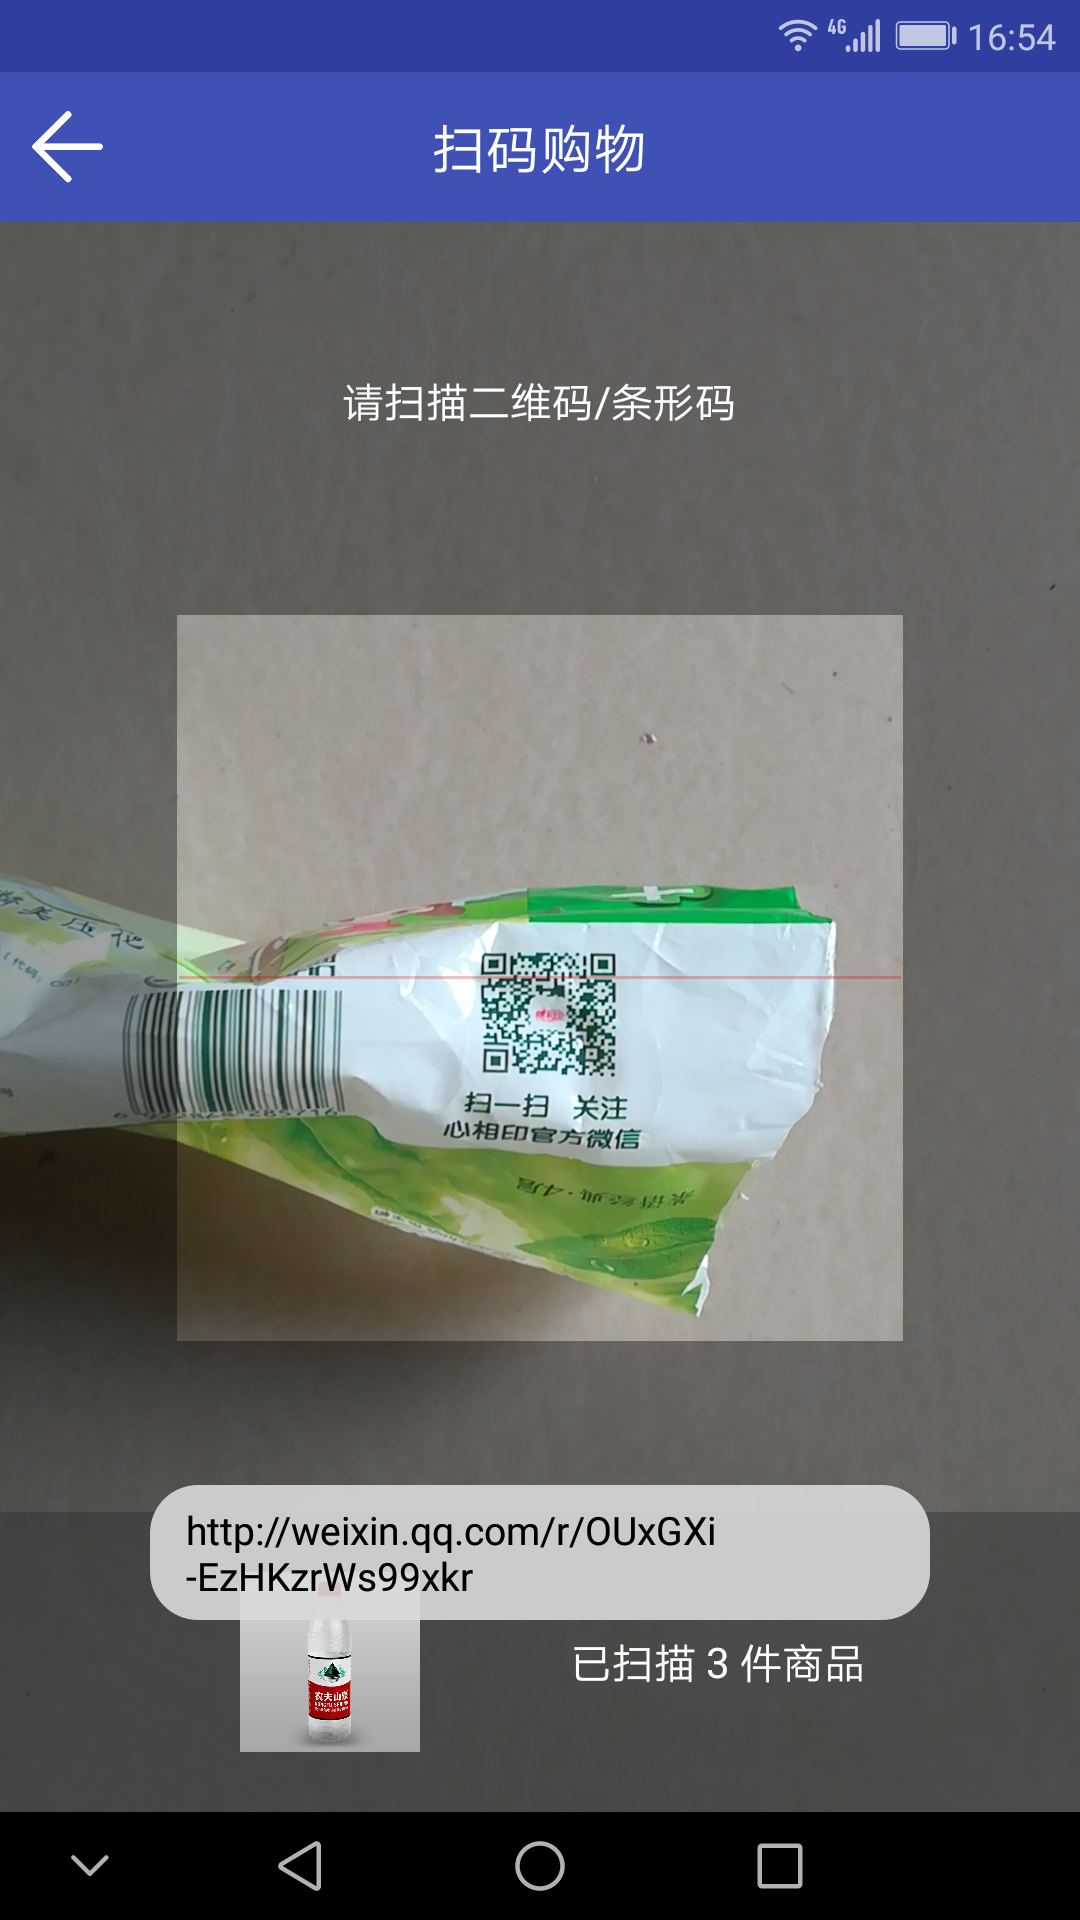
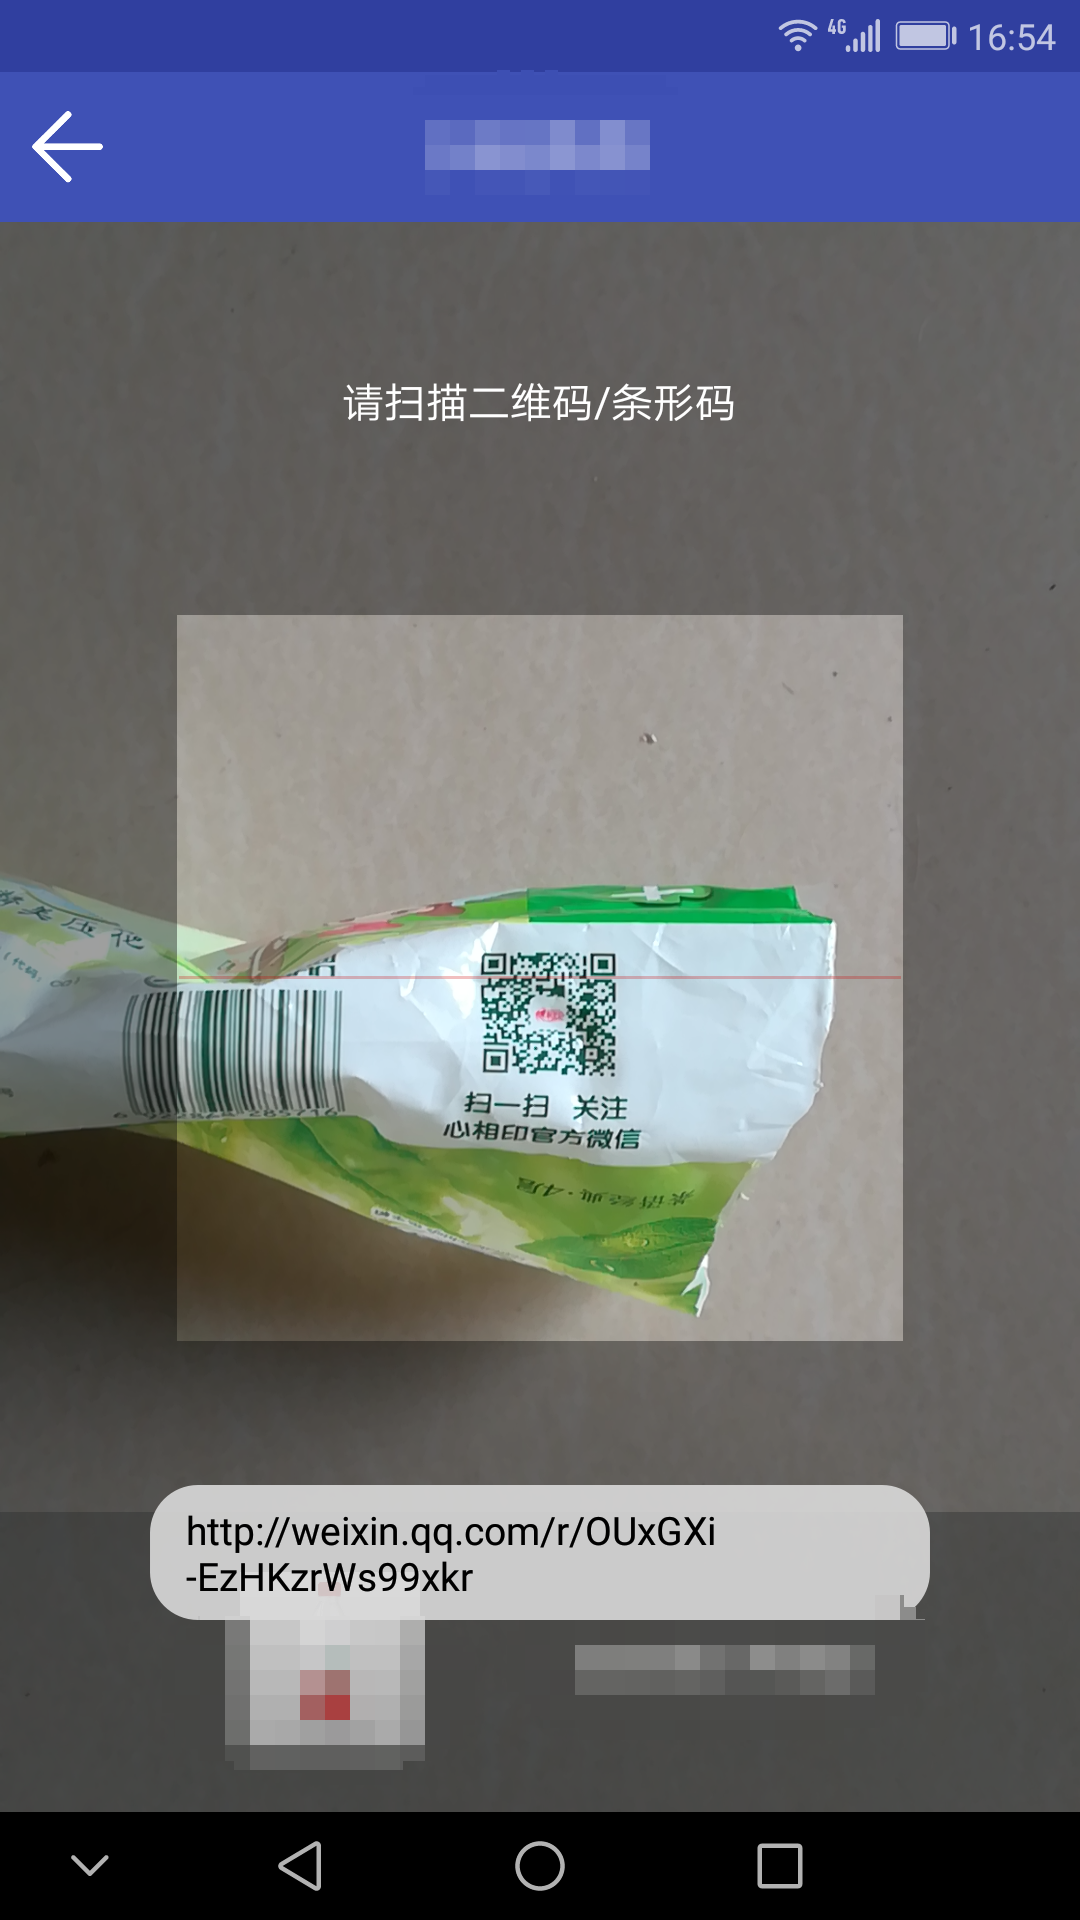
2

diff --git a/app/src/main/java/cn/com/bobojing/scantest/ExtendScanActivity.java b/app/src/main/java/cn/com/bobojing/scantest/ExtendScanActivity.java
@@ -46,7 +46,7 @@ public class ExtendScanActivity extends CaptureActivity {
     public void handleScanDecode(String result) {
         hs.add(result);
         Toast.makeText(this,result, Toast.LENGTH_SHORT).show();
-        tvNum.setText("已扫描 " + hs.size() + " 件商品");
+        tvNum.setText("已扫描 " + hs.size() + " 件");
     }
 
     @OnClick({R.id.goBack, R.id.ll_tool})
